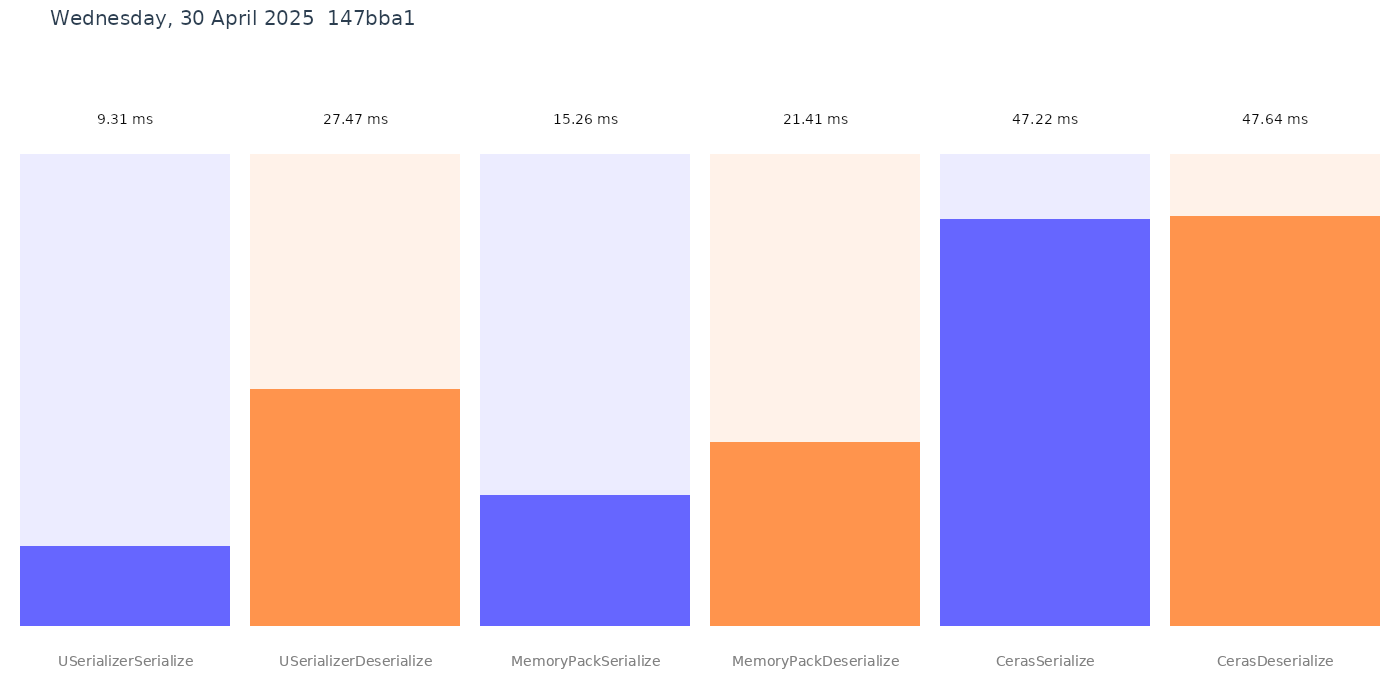
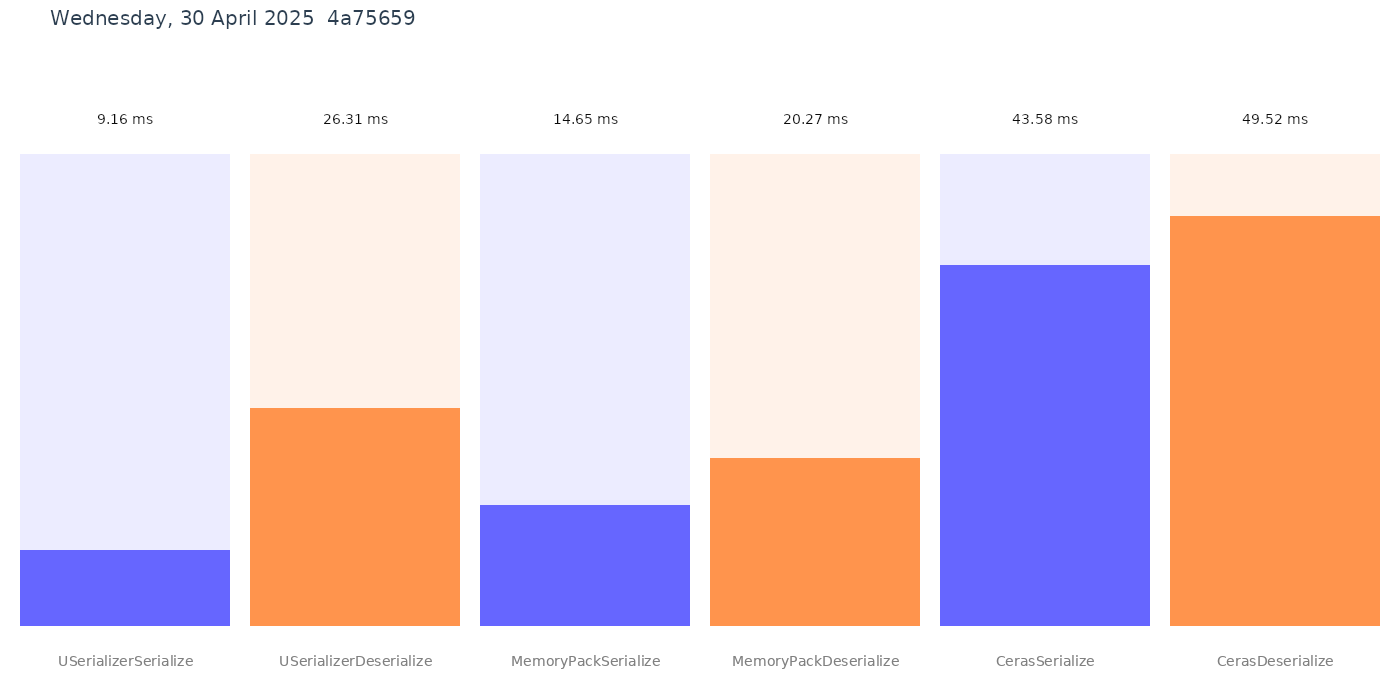
deploy: 4a75659d86790be0bf4f9ca11321fb91341b5562

diff --git a/performance.md b/performance.md
@@ -10,11 +10,11 @@ Job=ShortRun  IterationCount=3  LaunchCount=1
 WarmupCount=3  
 
 ```
-|                 Method |      Mean |      Error |    StdDev |
-|----------------------- |----------:|-----------:|----------:|
-|   USerializerSerialize |  9.308 ms |  0.5464 ms | 0.0299 ms |
-| USerializerDeserialize | 27.472 ms |  4.7040 ms | 0.2578 ms |
-|    MemoryPackSerialize | 15.257 ms |  1.0727 ms | 0.0588 ms |
-|  MemoryPackDeserialize | 21.412 ms |  3.6035 ms | 0.1975 ms |
-|         CerasSerialize | 47.219 ms | 13.8595 ms | 0.7597 ms |
-|       CerasDeserialize | 47.642 ms |  1.5252 ms | 0.0836 ms |
+|                 Method |      Mean |    Error |    StdDev |
+|----------------------- |----------:|---------:|----------:|
+|   USerializerSerialize |  9.158 ms | 1.045 ms | 0.0573 ms |
+| USerializerDeserialize | 26.306 ms | 3.422 ms | 0.1876 ms |
+|    MemoryPackSerialize | 14.650 ms | 1.617 ms | 0.0886 ms |
+|  MemoryPackDeserialize | 20.270 ms | 5.369 ms | 0.2943 ms |
+|         CerasSerialize | 43.580 ms | 4.528 ms | 0.2482 ms |
+|       CerasDeserialize | 49.517 ms | 7.881 ms | 0.4320 ms |
